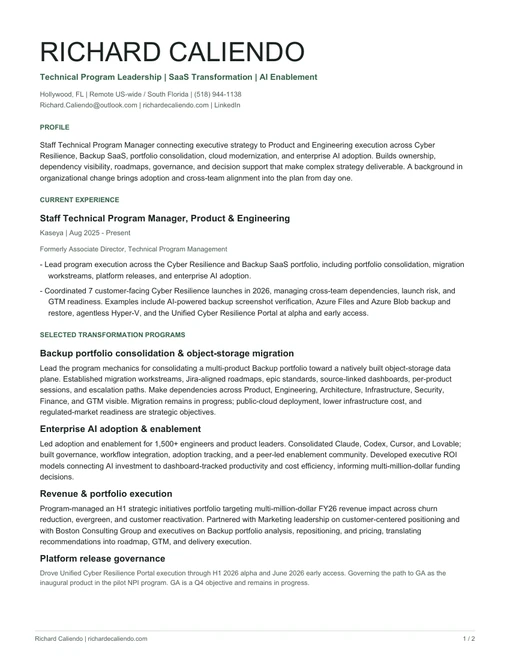
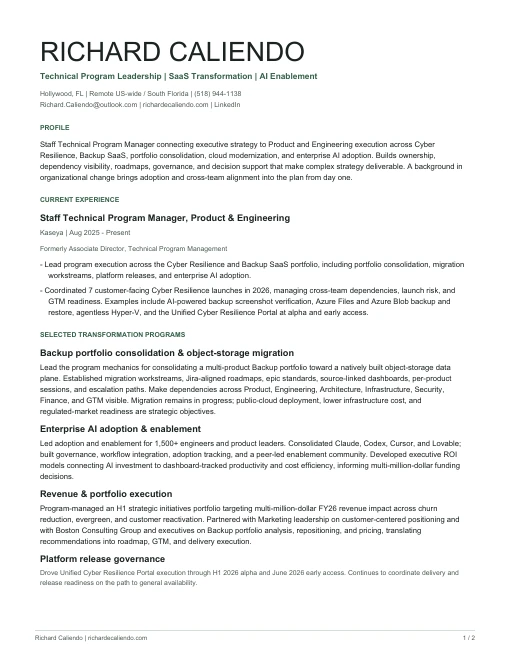
Remove internal GA details from public portfolio

diff --git a/index.html b/index.html
@@ -623,19 +623,14 @@
                   <li>
                     <span class="mono">June 2026</span
                     ><strong>Early access</strong
-                    ><span>Expanded integrations and capabilities</span>
+                    ><span>Early-access release</span>
                   </li>
                   <li>
-                    <span class="mono">Q4 objective</span
-                    ><strong>GA in progress</strong
-                    ><span>Inaugural product in the pilot NPI program</span>
+                    <span class="mono">Next phase</span
+                    ><strong>Path to GA</strong
+                    ><span>Ongoing refinement and release readiness</span>
                   </li>
                 </ol>
-                <p>
-                  TPM governs the Product and Engineering execution layer;
-                  Product Marketing, Product Finance, and related stakeholders
-                  validate expanded releases.
-                </p>
               </details>
             </div>
           </div>
@@ -939,7 +934,7 @@
             <div>
               <dt>Product &amp; Engineering</dt>
               <dd>
-                Agile / Scrum, SAFe, NPI governance, dependency mapping, release
+                Agile / Scrum, SAFe, launch governance, dependency mapping, release
                 management
               </dd>
             </div>

diff --git a/styles.css b/styles.css
@@ -938,11 +938,28 @@ details[open] > summary .icon-plus {
   display: grid;
   align-content: start;
   gap: 7px;
+  position: relative;
   border-top: 2px solid #94b999;
-  padding-top: 12px;
+  padding-top: 18px;
+}
+.portal-stages li::before {
+  content: "";
+  position: absolute;
+  top: -6px;
+  left: 0;
+  width: 10px;
+  height: 10px;
+  border-radius: 50%;
+  background: var(--green);
+  box-shadow: 0 0 0 3px var(--paper);
 }
 .portal-stages li:last-child {
   border-color: #abb1a9;
+  border-top-style: dashed;
+}
+.portal-stages li:last-child::before {
+  background: var(--paper);
+  border: 2px solid var(--green);
 }
 .portal-stages span {
   font-size: 13px;
@@ -950,9 +967,6 @@ details[open] > summary .icon-plus {
 }
 .portal-stages strong {
   font-size: 15px;
-}
-.portal-details > p {
-  font-size: 14px;
 }
 
 .approach-section {

diff --git a/scripts/generate-resume.py b/scripts/generate-resume.py
@@ -55,7 +55,7 @@ add('Led adoption and enablement for 1,500+ engineers and product leaders. Conso
 add('Revenue &amp; portfolio execution', 'role')
 add('Program-managed an H1 strategic initiatives portfolio targeting multi-million-dollar FY26 revenue impact across churn reduction, evergreen, and customer reactivation. Partnered with Marketing leadership on customer-centered positioning and with Boston Consulting Group and executives on Backup portfolio analysis, repositioning, and pricing, translating recommendations into roadmap, GTM, and delivery execution.')
 add('Platform release governance', 'role')
-add('Drove Unified Cyber Resilience Portal execution through H1 2026 alpha and June 2026 early access. Governing the path to GA as the inaugural product in the pilot NPI program. GA is a Q4 objective and remains in progress.', 'small')
+add('Drove Unified Cyber Resilience Portal execution through H1 2026 alpha and June 2026 early access. Continues to coordinate delivery and release readiness on the path to general availability.', 'small')
 
 story.append(PageBreak())
 add('RICHARD CALIENDO', 'role')
@@ -78,7 +78,7 @@ role('Program Specialist', 'New York State Office of Mental Health (Research Fou
     'Designed training for 55 provider agencies launching a statewide FEMA Crisis Counseling Program. Served as SME to the NYS Psychiatric Institute and Center for Practice Innovations; co-authored quarterly reports to NYS and FEMA.'
 ])
 add('OPERATING CAPABILITIES &amp; TOOLS', 'label')
-add('<b>Program systems:</b> Jira, Jira Plans, Confluence, Asana, Atlassian Rovo, Agile / Scrum, SAFe, dependency mapping, release management, NPI lifecycle governance, portfolio dashboards.', 'small')
+add('<b>Program systems:</b> Jira, Jira Plans, Confluence, Asana, Atlassian Rovo, Agile / Scrum, SAFe, dependency mapping, release management, portfolio dashboards.', 'small')
 add('<b>AI enablement:</b> Claude, Claude Code, Codex, GitHub Copilot, Cursor, Lovable, M365 Copilot, MCP, AI governance, prompt and workflow design.', 'small')
 add('<b>Analytics, automation &amp; collaboration:</b> Power BI, Excel, Power Automate, Power Apps, SharePoint, Microsoft 365, Zapier.', 'small')
 add('<b>Program domains:</b> Backup &amp; BCDR, SaaS portfolio consolidation, object-storage data-plane migration, public-cloud migration, Microsoft Azure, FedRAMP readiness. Technical domains describe program scope, not engineering ownership or certifications.', 'small')

diff --git a/QA.md b/QA.md
@@ -28,7 +28,7 @@ Reviewed mobile, tablet, desktop, and ultrawide screenshots, plus the case studi
 
 ## Content boundaries
 
-Preserved official historical titles and dates. Kept revenue targets masked and distinguished them from realized revenue. The Portal remains alpha/early access with GA in progress. Migration, cloud, cost, and regulated-market items remain objectives where appropriate. Did not introduce ARR claims, exact productivity percentages, engineering ownership, certifications, or a Chief of Staff title.
+Preserved official historical titles and dates. Kept revenue targets masked and distinguished them from realized revenue. The Portal remains alpha/early access, with the path to GA described broadly. Migration, cloud, cost, and regulated-market items remain objectives where appropriate. Did not introduce ARR claims, exact productivity percentages, engineering ownership, certifications, or a Chief of Staff title.
 
 Richard explicitly authorized updating the older PDF using approved facts. The replacement corrects the previous title/date mismatches and excluded disclosures.
 
@@ -45,3 +45,7 @@ Added a supporting engineering onboarding and enablement example to the operatin
 ## Readability and navigation pass (2026-09-29)
 
 Raised primary reading copy to at least 14px and visible supporting text to at least 12px at all nine tested widths, enlarged navigation, reduced section gaps, widened the desktop layout, and added direct Approach and Capabilities navigation. The menu now collapses below 900px. Browser QA passed 110/110 checks, including mobile/tablet menu focus, a visible close icon, overflow, accessibility, and text-size regressions. The final mobile Lighthouse run scored 97 performance and 100 in accessibility, best practices, and SEO. Mobile, tablet, and desktop viewport screenshots were reviewed. The static site needs HTTP serving for SVG masks to render in Chromium; direct `file://` screenshots were not used for final visual review.
+
+## Portal disclosure update (2026-09-29)
+
+The release progression keeps only the alpha and June early-access milestones. The subsequent stage is a non-dated path to GA with broad release-readiness language. Removed internal process detail from the site and public PDF, regenerated the PDF thumbnail, and checked extracted PDF text for disclosure regressions. The updated site passed 112/112 browser checks across nine viewport widths; the expanded progression was visually inspected at mobile, tablet, and desktop widths.

diff --git a/README.md b/README.md
@@ -46,7 +46,7 @@ Checks cover layout overflow, touch targets, active navigation, keyboard and mob
 
 ## Content integrity
 
-The approved portfolio copy and Richard's explicit corrections govern titles, dates, program scope, and disclosure. Preserve the Staff TPM title and the separate historical Training & Development roles. Revenue remains described as targeted multi-million-dollar impact; confidential figures and precise productivity percentages stay excluded. Portal releases are alpha and early access, with GA in progress. Cloud and regulated-market readiness are objectives, not completed certifications or personal engineering claims.
+The approved portfolio copy and Richard's explicit corrections govern titles, dates, program scope, and disclosure. Preserve the Staff TPM title and the separate historical Training & Development roles. Revenue remains described as targeted multi-million-dollar impact; confidential figures and precise productivity percentages stay excluded. Portal releases are alpha and early access; the path to GA is described without a target date or internal process details. Cloud and regulated-market readiness are objectives, not completed certifications or personal engineering claims.
 
 Resume updates were authorized by Richard on September 26, 2026. Do not reintroduce figures or historical titles from the superseded PDF.
 
